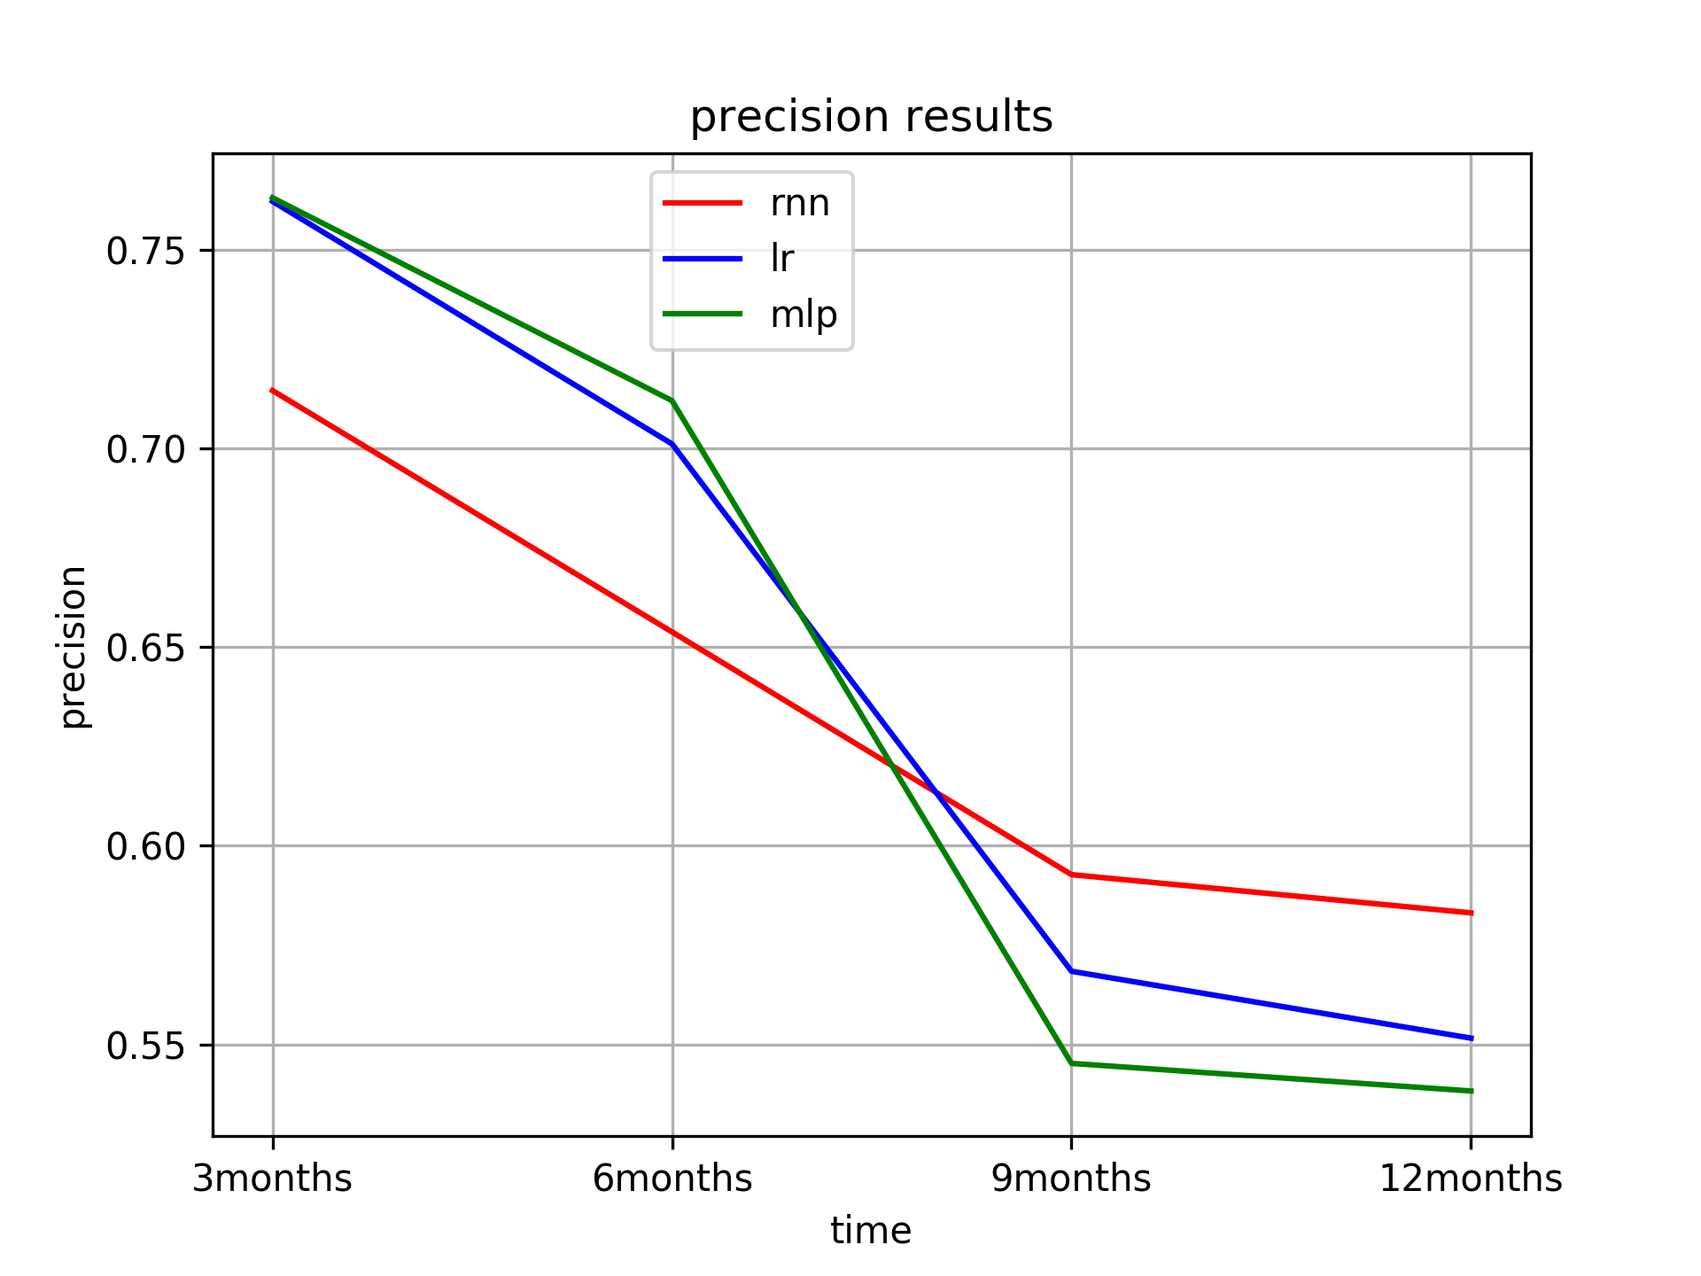
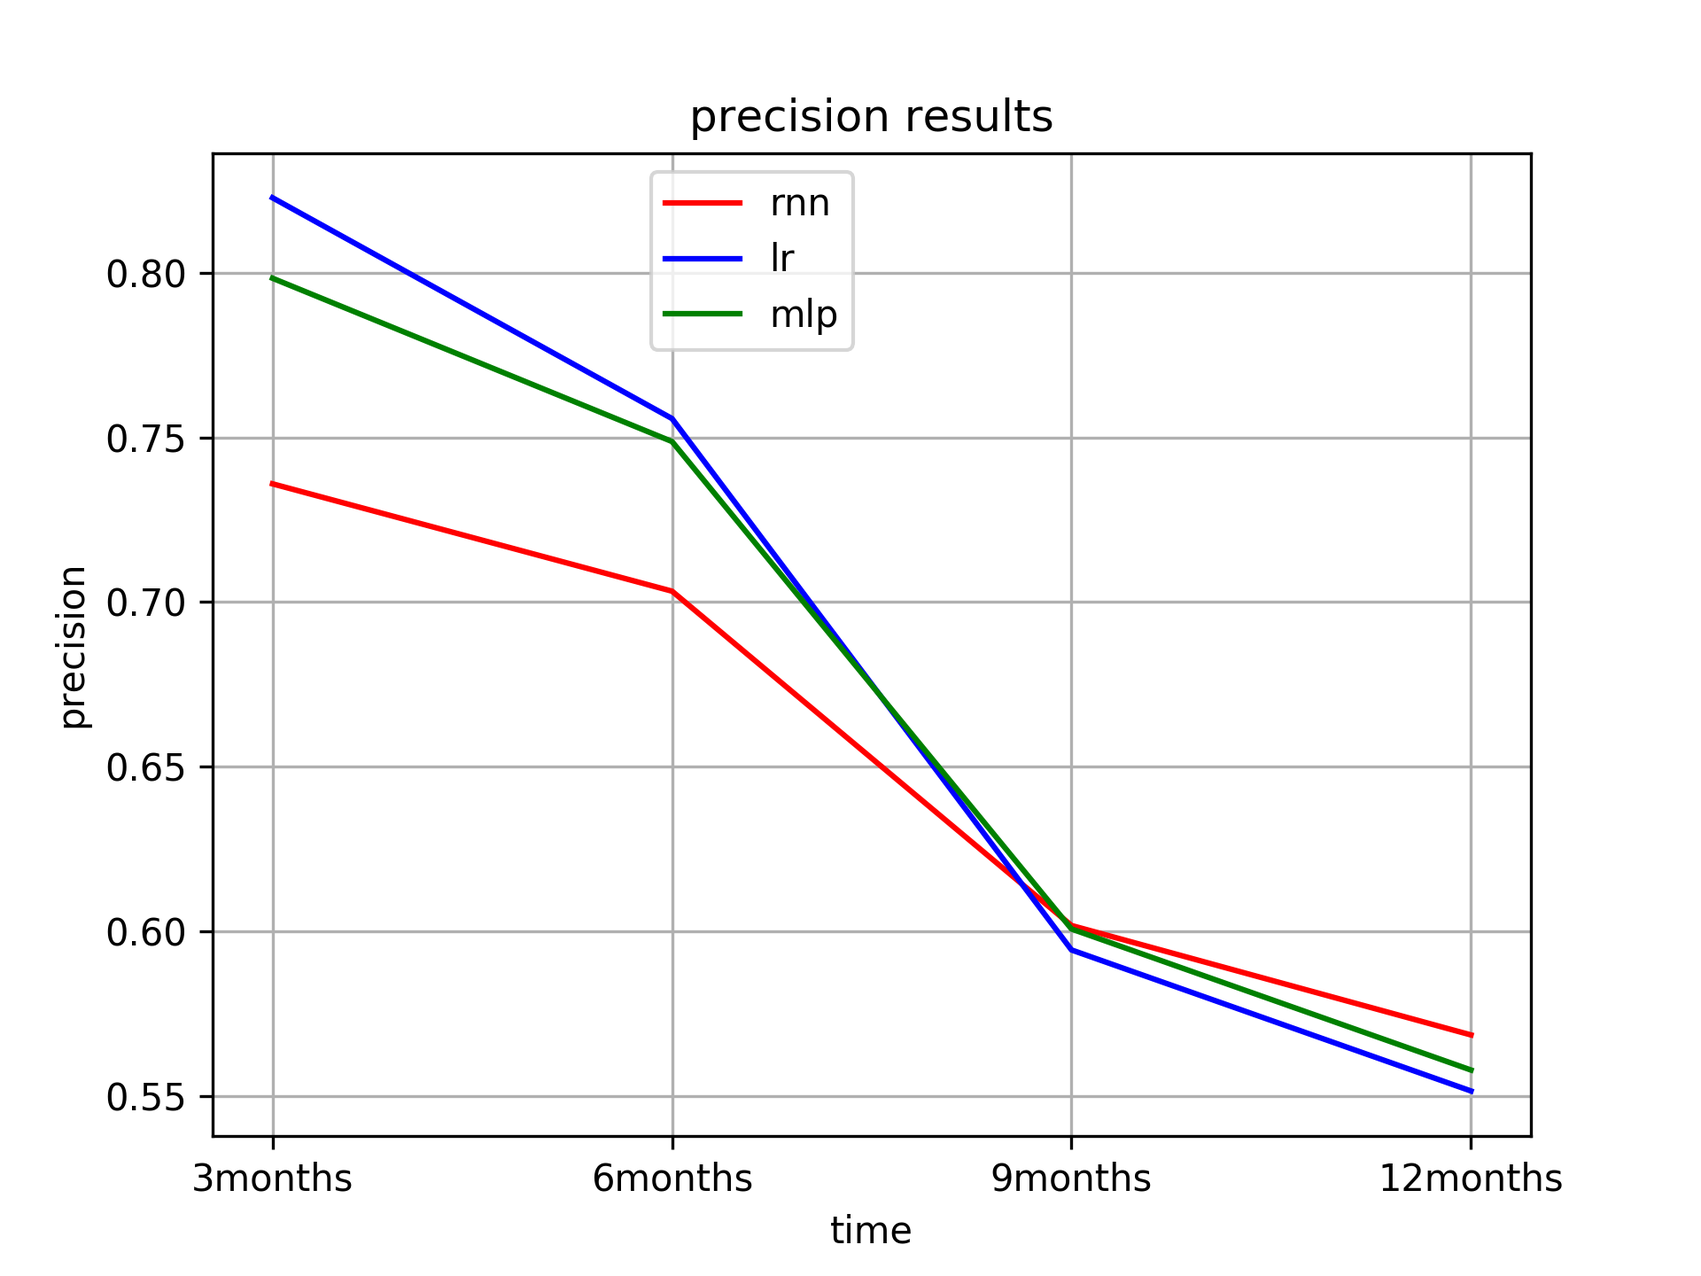
v0.0.11 添加Recordcontent记录实验结果

diff --git a/BaselineTest.py b/BaselineTest.py
@@ -2,13 +2,18 @@ import numpy as np
 from keras.models import load_model
 from sklearn.metrics import roc_auc_score, accuracy_score, recall_score, precision_score
 import BaselineTrain
+import CreateDataset
 
 
 def load_test_data(month):
-    dataset_jbbm_test = BaselineTrain.change_to_one_zero(np.sum(
-        np.load('./data_npz/dataset_jbbm_test.npz')["arr_0"], axis=1))
-    dataset_drug_test = BaselineTrain.change_to_one_zero(np.sum(
-        np.load('./data_npz/dataset_drug_nocost_test.npz')["arr_0"], axis=1))
+    # dataset_jbbm_test = BaselineTrain.change_to_one_zero(np.sum(
+    #     np.load('./data_npz/dataset_jbbm_test.npz')["arr_0"], axis=1))
+    # dataset_drug_test = BaselineTrain.change_to_one_zero(np.sum(
+    #     np.load('./data_npz/dataset_drug_nocost_test.npz')["arr_0"], axis=1))
+    dataset_jbbm_test = np.load('./data_npz/dataset_jbbm_test.npz')["arr_0"][:, -1, :] \
+        .reshape(int(CreateDataset.patient_num * 0.15 + 1), CreateDataset.jbbm_num)
+    dataset_drug_test = np.load('./data_npz/dataset_drug_nocost_test.npz')["arr_0"][:, -1, :] \
+        .reshape(int(CreateDataset.patient_num * 0.15 + 1), CreateDataset.drug_num)
     label_jbbm_test = np.load('./data_npz/label_jbbm_test_' + str(month) + 'month.npz')["arr_0"]
     label_drug_test = np.load('./data_npz/label_drug_nocost_test_' + str(month) + 'month.npz')["arr_0"]
     label_sick_test = np.load('./data_npz/label_sick_test_' + str(month) + 'month.npz')["arr_0"]
@@ -55,6 +60,7 @@ def precision_top(y_true, y_pred, rank=None):
 
     return (np.array(recall)).mean(axis=0).tolist()
 
+
 def calculate_r_squared(true_vec, pred_vec):
     true_vec = np.array(true_vec)
     pred_vec = np.array(pred_vec)
@@ -88,11 +94,10 @@ def calculate_precision(true_vec, pred_vec):
     return precision
 
 
-
 def test_lr_sick(filename, month):
     dataset_jbbm_test, dataset_drug_test, label_jbbm_test, label_drug_test, label_sick_test = load_test_data(month)
     model = load_model('./data_h5/' + filename)
-    pred_jbbm_test,pred_sick_test = model.predict(x=[dataset_jbbm_test, dataset_drug_test])
+    pred_jbbm_test, pred_sick_test = model.predict(x=[dataset_jbbm_test, dataset_drug_test])
     # print('前十个人的预测情况和患病情况分别为')
     # for i in range(10):
     #     print(pred_sick_test[i], label_sick_test[i])
@@ -108,7 +113,7 @@ def test_lr_sick(filename, month):
 def test_mlp_sick(filename, month):
     dataset_jbbm_test, dataset_drug_test, label_jbbm_test, label_drug_test, label_sick_test = load_test_data(month)
     model = load_model('./data_h5/' + filename)
-    pred_jbbm_test,pred_sick_test = model.predict(x=[dataset_jbbm_test, dataset_drug_test])
+    pred_jbbm_test, pred_sick_test = model.predict(x=[dataset_jbbm_test, dataset_drug_test])
     # print('前十个人的预测情况和患病情况分别为')
     # for i in range(10):
     #     print(pred_sick_test[i], label_sick_test[i])
@@ -120,10 +125,11 @@ def test_mlp_sick(filename, month):
     recall = calculate_recall(label_sick_test, pred_sick_test)
     return [auc, acc, precision, recall]
 
+
 def test_lr_jbbm(filename, month):
     dataset_jbbm_test, dataset_drug_test, label_jbbm_test, label_drug_test, label_sick_test = load_test_data(month)
     model = load_model('./data_h5/' + filename)
-    pred_jbbm_test,pred_sick_test = model.predict(x=[dataset_jbbm_test, dataset_drug_test])
+    pred_jbbm_test, pred_sick_test = model.predict(x=[dataset_jbbm_test, dataset_drug_test])
     print("top1,top2,top3 recall分别为", recall_top(label_jbbm_test, pred_jbbm_test))
     print("top1,top2,top3 precisoin分别为", precision_top(label_jbbm_test, pred_jbbm_test))
     print(calculate_r_squared(label_jbbm_test, pred_jbbm_test))
@@ -132,7 +138,7 @@ def test_lr_jbbm(filename, month):
 def test_mlp_jbbm(filename, month):
     dataset_jbbm_test, dataset_drug_test, label_jbbm_test, label_drug_test, label_sick_test = load_test_data(month)
     model = load_model('./data_h5/' + filename)
-    pred_jbbm_test,pred_sick_test = model.predict(x=[dataset_jbbm_test, dataset_drug_test])
+    pred_jbbm_test, pred_sick_test = model.predict(x=[dataset_jbbm_test, dataset_drug_test])
     print("top1,top2,top3 recall分别为", recall_top(label_jbbm_test, pred_jbbm_test))
     print("top1,top2,top3 precisoin分别为", precision_top(label_jbbm_test, pred_jbbm_test))
     print(calculate_r_squared(label_jbbm_test, pred_jbbm_test))

diff --git a/Main.py b/Main.py
@@ -10,6 +10,7 @@ import DoctorAITest
 import BaselineTrain
 import BaselineTest
 import PlotContent
+import RecordContent
 import re
 
 if __name__ == '__main__':
@@ -23,51 +24,59 @@ if __name__ == '__main__':
 
     # # 训练RNN模型
     # month_list = [3, 6, 9, 12]
-    # emb_list = [500, 1000, 1500]
-    # hidden_list = [[200, 200], [200]]
-    # rnn_uint = ['gru', 'lstm']
-    # max_epochs = [10, 20, 30]
-    # for i in month_list:
-    #     for j in emb_list:
-    #         for k in hidden_list:
-    #             for l in rnn_uint:
-    #                 for m in max_epochs:
-    #                     print('./data_h5/rnn' + str(len(k)) + '_emb' + str(j) + '_hidden' + str(k) + '_'+l+'_'
-    #                           + str(m) + 'epochs_' + str(i) + 'month.h5')
-    #                     # DoctorAITrain.train_model(month=i, max_epochs=20, batch_size=100,
-    #                     #                           emb_size=500, hidden_size=j, rnn_unit=k)
-    DoctorAITrain.train_model(month=3, max_epochs=2, batch_size=200,emb_size=500,hidden_size=[200])
+    # emb_list = [500,1000]
+    # hidden_list = [[300, 300], [300]]
+    # rnn_uint_list = ['gru', 'lstm']
+    # for month in month_list:
+    #     for emb in emb_list:
+    #         for hidden in hidden_list:
+    #             for rnn_unit in rnn_uint_list:
+    #                 DoctorAITrain.train_model(month=month, max_epochs=100,
+    #                                           batch_size=100, emb_size=emb,
+    #                                           hidden_size=hidden, rnn_unit=rnn_unit)
     # # 测试RNN模型
     # month_list = [3, 6, 9, 12]
-    # for i in month_list:
-    #     #DoctorAITest.test_model_sick('model_20epochs_'+str(i)+'month.h5', month=3)
-    #     DoctorAITest.test_model_jbbm('rnn2_[200,200]_20epochs_'+str(i)+'month.h5', month=3)
-    # print()
+    # emb_list = [500, 1000]
+    # hidden_list = [[300, 300], [300]]
+    # rnn_uint_list = ['gru', 'lstm']
+    # for month in month_list:
+    #     for emb in emb_list:
+    #         for hidden in hidden_list:
+    #             for rnn_unit in rnn_uint_list:
+    #                 file_name = 'rnn' + str(len(hidden)) + '_' + str(emb) + 'emb_' + str(hidden) \
+    #                             + 'hidden_' + '_' + rnn_unit + '_' + str(20) + 'epochs_' + str(
+    #                     month) + 'month'
+    #                 print(file_name)
+    #                 DoctorAITest.test_model_jbbm(file_name + '.h5',month=month)
 
     # # 训练逻辑回归模型
-    # month_list = [3, 6, 9, 12]
+    # month_list = [3, 6, 9,  12]
     # for i in month_list:
-    #     BaselineTrain.train_lr(month=i, max_epochs=20, batch_size=64)
+    #     BaselineTrain.train_lr(month=i, max_epochs=10, batch_size=100)
 
     # # 测试逻辑回归模型
     # month_list = [3, 6, 9, 12]
     # for i in month_list:
-    #     #BaselineTest.test_lr_sick('lr_20epochs_'+str(i)+'month.h5', month=3)
-    #     BaselineTest.test_lr_jbbm('lr_20epochs_' + str(i) + 'month.h5', month=3)
+    #     print(BaselineTest.test_lr_sick('lr_10epochs_'+str(i)+'month.h5', month=i))
+    #     # BaselineTest.test_lr_jbbm('lr_10epochs_' + str(i) + 'month.h5', month=i)
     # print()
-    # # 训练多层感知机模型
+
+    # #训练多层感知机模型
     # month_list = [3, 6, 9, 12]
     # for i in month_list:
-    #     BaselineTrain.train_mlp(month=i, max_epochs=20, batch_size=64)
+    #     BaselineTrain.train_mlp(month=i, max_epochs=10, batch_size=64)
 
     # #测试多层感知机模型
     # month_list = [3, 6, 9, 12]
     # for i in month_list:
-    #     #BaselineTest.test_mlp_sick('mlp_20epochs_'+str(i)+'month.h5', month=3)
-    #     BaselineTest.test_mlp_jbbm('mlp_20epochs_' + str(i) + 'month.h5', month=3)
+    #     print(BaselineTest.test_mlp_sick('mlp_10epochs_'+str(i)+'month.h5', month=3))
+    #     #BaselineTest.test_mlp_jbbm('mlp_10epochs_' + str(i) + 'month.h5', month=i)
     # print()
 
     # # 绘制疾病预测结果
     # PlotContent.plot_sick_results()
+
+    #RecordContent.record_result()
+    PlotContent.plot_jbbm_num()
 
     print('总时间:', time.clock() - start)

diff --git a/DoctorAITrain.py b/DoctorAITrain.py
@@ -1,10 +1,11 @@
-from keras.layers import Input, Dense, concatenate, GRU, Dropout,LSTM
+from keras.layers import Input, Dense, concatenate, GRU, Dropout, LSTM
 from keras.models import Model
-from keras.callbacks import History
+from keras.callbacks import History, EarlyStopping, TensorBoard
 
 from keras.utils.vis_utils import plot_model
 import numpy as np
 import CreateDataset
+import FileOptions
 
 
 def load_train_data(month):
@@ -28,7 +29,7 @@ def train_model(
     drug_input = Input(shape=(CreateDataset.visit_num, CreateDataset.drug_num), name='drug_input')
     code_input = concatenate([jbbm_input, drug_input])
     embed_layer = Dense(units=emb_size, activation='tanh')(code_input)
-    if len(hidden_size) == 2 and rnn_unit=='gru':
+    if len(hidden_size) == 2 and rnn_unit == 'gru':
         gru_1 = GRU(units=hidden_size[0], return_sequences=True)(embed_layer)
         dropout_1 = Dropout(rate=dropout_rate)(gru_1)
         gru_2 = GRU(units=hidden_size[1], return_sequences=False)(dropout_1)
@@ -36,13 +37,13 @@ def train_model(
         jbbm_output = Dense(CreateDataset.jbbm_categ_num, activation='softmax', name='jbbm_output')(dropout_2)
         # drug_output = Dense(CreateDataset.drug_categ_num, activation='softmax', name='drug_output')(dropout_2)
         sick_output = Dense(1, activation='sigmoid', name='sick_output')(dropout_2)
-    elif len(hidden_size) == 1 and rnn_unit=='gru':
+    elif len(hidden_size) == 1 and rnn_unit == 'gru':
         gru_1 = GRU(units=hidden_size[0], return_sequences=False)(embed_layer)
         dropout_1 = Dropout(rate=dropout_rate)(gru_1)
         jbbm_output = Dense(CreateDataset.jbbm_categ_num, activation='softmax', name='jbbm_output')(dropout_1)
         # drug_output = Dense(CreateDataset.drug_categ_num, activation='softmax', name='drug_output')(dropout_1)
         sick_output = Dense(1, activation='sigmoid', name='sick_output')(dropout_1)
-    elif len(hidden_size) == 2 and rnn_unit=='lstm':
+    elif len(hidden_size) == 2 and rnn_unit == 'lstm':
         lstm_1 = LSTM(units=hidden_size[0], return_sequences=True)(embed_layer)
         dropout_1 = Dropout(rate=dropout_rate)(lstm_1)
         lstm_2 = LSTM(units=hidden_size[1], return_sequences=False)(dropout_1)
@@ -61,14 +62,19 @@ def train_model(
                   loss={'jbbm_output': 'binary_crossentropy',
                         # 'drug_output': 'binary_crossentropy',
                         'sick_output': 'binary_crossentropy'},
-                  loss_weights={'jbbm_output': 1, 'sick_output': 1})
+                  loss_weights={'jbbm_output': 50, 'sick_output': 1})
 
     # 模型可视化
     plot_model(model, to_file='./data_png/rnn_model.png', show_shapes=True)
 
     dataset_jbbm_train, dataset_drug_train, label_jbbm_train, label_drug_train, label_sick_train = load_train_data(
         month)
-    history=History()
-    model.fit(x=[dataset_jbbm_train, dataset_drug_train], y=[label_jbbm_train, label_sick_train],
-              epochs=max_epochs, batch_size=batch_size, validation_split=0.2,callbacks=[history])
-    model.save('./data_h5/rnn' + len(hidden_size) + '_emb'+emb_size+'_hidden' +hidden_size+'_'+ str(max_epochs) + 'epochs_' + str(month) + 'month.h5')
+    early_stop = EarlyStopping(monitor='val_loss', patience=5)
+    tensor_board = TensorBoard(log_dir='./tensor_log')
+    hist = model.fit(x=[dataset_jbbm_train, dataset_drug_train], y=[label_jbbm_train, label_sick_train],
+                     epochs=max_epochs, batch_size=batch_size, validation_split=0.2, callbacks=[early_stop,tensor_board])
+    print(len(hist.history['loss']))
+    file_name = 'rnn' + str(len(hidden_size)) + '_' + str(emb_size) + 'emb_' + str(hidden_size) \
+                + 'hidden_' + '_' + rnn_unit + '_' + str(20) + 'epochs_' + str(month) + 'month'
+    model.save('./data_h5/' + file_name + '.h5')
+    FileOptions.dump_pkl(hist.history, '/data_history/' + file_name + '.history')

diff --git a/BaselineTrain.py b/BaselineTrain.py
@@ -17,9 +17,10 @@ def change_to_one_zero(dataset):
 
 
 def load_train_data(month):
-    dataset_jbbm_train = change_to_one_zero(np.sum(np.load('./data_npz/dataset_jbbm_train.npz')["arr_0"], axis=1))
-    dataset_drug_train = change_to_one_zero(
-        np.sum(np.load('./data_npz/dataset_drug_nocost_train.npz')["arr_0"], axis=1))
+    dataset_jbbm_train = np.load('./data_npz/dataset_jbbm_train.npz')["arr_0"][:, -1, :] \
+        .reshape(int(CreateDataset.patient_num * 0.85), CreateDataset.jbbm_num)
+    dataset_drug_train = np.load('./data_npz/dataset_drug_nocost_train.npz')["arr_0"][:, -1, :] \
+        .reshape(int(CreateDataset.patient_num * 0.85), CreateDataset.drug_num)
     label_jbbm_train = np.load('./data_npz/label_jbbm_train_' + str(month) + 'month.npz')["arr_0"]
     label_drug_train = np.load('./data_npz/label_drug_nocost_train_' + str(month) + 'month.npz')["arr_0"]
     label_sick_train = np.load('./data_npz/label_sick_train_' + str(month) + 'month.npz')["arr_0"]
@@ -35,7 +36,7 @@ def train_lr(month=3, max_epochs=10, batch_size=100):
     model = Model(inputs=[jbbm_input, drug_input], outputs=[jbbm_output, sick_output])
     model.compile(optimizer='rmsprop',
                   loss={'sick_output': 'binary_crossentropy', 'jbbm_output': 'binary_crossentropy'},
-                  loss_weights={'sick_output': 1, 'jbbm_output': 1})
+                  loss_weights={'sick_output': 1, 'jbbm_output': 50})
 
     # 模型可视化
     plot_model(model, to_file='./data_png/lr_model.png', show_shapes=True)
@@ -51,13 +52,13 @@ def train_mlp(month=3, max_epochs=10, batch_size=100):
     jbbm_input = Input(shape=(CreateDataset.jbbm_num,), name='jbbm_input')
     drug_input = Input(shape=(CreateDataset.drug_num,), name='drug_input')
     code_input = concatenate([jbbm_input, drug_input])
-    hidden_layer = Dense(200)(code_input)
+    hidden_layer = Dense(300)(code_input)
     jbbm_output = Dense(CreateDataset.jbbm_categ_num, activation='softmax', name='jbbm_output')(hidden_layer)
     sick_output = Dense(1, activation='sigmoid', name='sick_output')(hidden_layer)
     model = Model(inputs=[jbbm_input, drug_input], outputs=[jbbm_output, sick_output])
     model.compile(optimizer='rmsprop',
                   loss={'sick_output': 'binary_crossentropy', 'jbbm_output': 'binary_crossentropy'},
-                  loss_weights={'sick_output': 1, 'jbbm_output': 1})
+                  loss_weights={'sick_output': 1, 'jbbm_output': 50})
 
     # 模型可视化
     plot_model(model, to_file='./data_png/mlp_model.png', show_shapes=True)

diff --git a/RecordContent.py b/RecordContent.py
@@ -1,0 +1,42 @@
+from openpyxl import load_workbook
+
+import DoctorAITest
+
+
+def record_result():
+    # 测试RNN模型
+    month_list = [3, 6, 9, 12]
+    emb_list = [500, 1000]
+    hidden_list = [[300, 300], [300]]
+    rnn_uint_list = ['gru', 'lstm']
+    wb = load_workbook(filename='./test_result/32test_result.xlsx')
+    sheetnames = wb.get_sheet_names()
+    ws = wb.get_sheet_by_name(sheetnames[0])
+    ws_count=2
+    for month in month_list:
+        for emb in emb_list:
+            for hidden in hidden_list:
+                for rnn_unit in rnn_uint_list:
+                    file_name = 'rnn' + str(len(hidden)) + '_' + str(emb) + 'emb_' + str(hidden) \
+                                + 'hidden_' + '_' + rnn_unit + '_' + str(20) + 'epochs_' + str(
+                        month) + 'month'
+
+                    sick_result = DoctorAITest.test_model_sick(file_name + '.h5', month=month)
+                    jbbm_result = DoctorAITest.test_model_jbbm(file_name + '.h5', month=month)
+                    ws.cell(column=1, row=ws_count, value=emb)
+                    ws.cell(column=2, row=ws_count, value=str(hidden))
+                    ws.cell(column=3, row=ws_count, value=rnn_unit)
+                    ws.cell(column=4, row=ws_count, value=month)
+                    ws.cell(column=5, row=ws_count, value=sick_result[0])
+                    ws.cell(column=6, row=ws_count, value=sick_result[1])
+                    ws.cell(column=7, row=ws_count, value=sick_result[2])
+                    ws.cell(column=8, row=ws_count, value=sick_result[3])
+                    ws.cell(column=9, row=ws_count, value=jbbm_result[0])
+                    ws.cell(column=10, row=ws_count, value=jbbm_result[1])
+                    ws.cell(column=11, row=ws_count, value=jbbm_result[2])
+                    ws.cell(column=12, row=ws_count, value=jbbm_result[3])
+                    ws.cell(column=13, row=ws_count, value=jbbm_result[4])
+                    ws.cell(column=14, row=ws_count, value=jbbm_result[5])
+                    ws.cell(column=15, row=ws_count, value=jbbm_result[6])
+                    ws_count+=1
+                    wb.save('./test_result/32test_result.xlsx')

diff --git a/PlotContent.py b/PlotContent.py
@@ -11,16 +11,16 @@ def plot_sick_results():
     # # 测试RNN模型
     month_list = [3, 6, 9, 12]
     for i in month_list:
-        model_result = DoctorAITest.test_model_sick('model_20epochs_' + str(i) + 'month.h5', month=3)
+        model_result = DoctorAITest.test_model_sick('rnn1_500emb_[300]hidden__gru_20epochs_' + str(i) + 'month.h5', month=3)
         model_results.append(model_result)
     # 测试逻辑回归模型
     for i in month_list:
-        lr_result = BaselineTest.test_lr_sick('lr_20epochs_' + str(i) + 'month.h5', month=3)
+        lr_result = BaselineTest.test_lr_sick('lr_10epochs_' + str(i) + 'month.h5', month=3)
         lr_results.append(lr_result)
 
     # 测试多层感知机模型
     for i in month_list:
-        mlp_result = BaselineTest.test_mlp_sick('mlp_20epochs_' + str(i) + 'month.h5', month=3)
+        mlp_result = BaselineTest.test_mlp_sick('mlp_10epochs_' + str(i) + 'month.h5', month=3)
         mlp_results.append(mlp_result)
     model_results=np.asarray(model_results)
     lr_results=np.asarray(lr_results)
@@ -77,3 +77,19 @@ def plot_sick_results():
     plt.grid()
     plt.savefig('./data_png/sick_recall.png',dpi=300)
     plt.close()
+
+
+def plot_jbbm_num():
+    month_list = [3, 6, 9, 12]
+    for month in month_list:
+        label_jbbm_train = np.load('./data_npz/label_jbbm_train_' + str(month) + 'month.npz')["arr_0"]
+        label_jbbm_num=np.sum(label_jbbm_train,axis=1)
+        max_num=np.max(label_jbbm_num)
+        min_num=np.min(label_jbbm_num)
+        jbbm_count=np.zeros([max_num-min_num+1])
+        for i in label_jbbm_num:
+            jbbm_count[i]+=1
+        print(jbbm_count)
+        plt.bar(range(len(jbbm_count)), jbbm_count)
+        plt.savefig('./data_png/jbbm_num'+str(month)+'month.png',dpi=300)
+        plt.close()

diff --git a/DoctorAITest.py b/DoctorAITest.py
@@ -89,7 +89,7 @@ def calculate_precision(true_vec, pred_vec):
 def test_model_sick(filename, month):
     dataset_jbbm_test, dataset_drug_test, label_jbbm_test, label_drug_test, label_sick_test = load_test_data(month)
     model = load_model('./data_h5/' + filename)
-    pred_jbbm_test, pred_drug_test, pred_sick_test = model.predict(x=[dataset_jbbm_test, dataset_drug_test])
+    pred_jbbm_test, pred_sick_test = model.predict(x=[dataset_jbbm_test, dataset_drug_test])
     # print('前十个人的预测情况和患病情况分别为')
     # for i in range(10):
     #     print(pred_sick_test[i], label_sick_test[i])
@@ -106,8 +106,8 @@ def test_model_sick(filename, month):
 def test_model_jbbm(filename, month):
     dataset_jbbm_test, dataset_drug_test, label_jbbm_test, label_drug_test, label_sick_test = load_test_data(month)
     model = load_model('./data_h5/' + filename)
-    print(model.history)
-    pred_jbbm_test, pred_drug_test, pred_sick_test = model.predict(x=[dataset_jbbm_test, dataset_drug_test])
-    print("top1,top2,top3 recall分别为", recall_top(label_jbbm_test, pred_jbbm_test))
-    print("top1,top2,top3 precisoin分别为", precision_top(label_jbbm_test, pred_jbbm_test))
-    print(calculate_r_squared(label_jbbm_test, pred_jbbm_test))
+    pred_jbbm_test, pred_sick_test = model.predict(x=[dataset_jbbm_test, dataset_drug_test])
+    top1_recall,top2_recall,top3_recall=recall_top(label_jbbm_test, pred_jbbm_test)
+    top1_pre,top2_pre,top3_pre=precision_top(label_jbbm_test, pred_jbbm_test)
+    r2_jbbm=calculate_r_squared(label_jbbm_test, pred_jbbm_test)
+    return [top1_recall,top2_recall,top3_recall,top1_pre,top2_pre,top3_pre,r2_jbbm]
